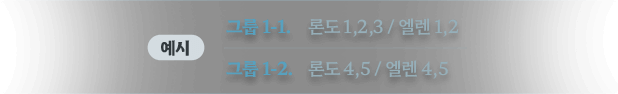
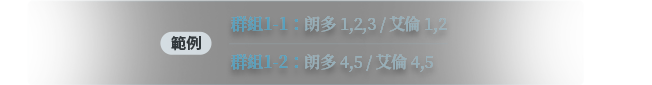
some image done

Changed region(s): [[0.123, 0.0, 0.9223, 1.0]]

diff --git a/css/page.css b/css/page.css
@@ -329,7 +329,7 @@
     box-sizing: border-box;
     color: #c9c9c980;
     display: flex;
-    font-family: Hahmlet, sans-serif;
+    font-family: "Noto Serif TC", serif;
     font-size: 17px;
     font-style: normal;
     font-weight: 500;
@@ -654,7 +654,7 @@ section.area .header {
     align-items: center;
     display: flex;
     flex-direction: column;
-    font-family: WarsOfPrasia, serif;
+    font-family: "Noto Serif TC", serif;
     transform: translateZ(0);
 }
 
@@ -665,7 +665,8 @@ section.area .header .subtitle {
     font-size: 25px;
     line-height: 1;
     white-space: nowrap;
-    grid-gap: 15px
+    grid-gap: 15px;
+    font-weight: 600;
 }
 
 @media (max-width: 768px) {
@@ -712,10 +713,11 @@ section.area .header h3.title {
     background-position: 50%;
     background-repeat: repeat;
     background-size: initial;
-    color: #0000;
+    color: #f3f0ed;
     font-size: 46px;
     line-height: 1;
-    margin-top: 18px
+    margin-top: 18px;
+    font-weight: 700;
 }
 
 @media (max-width: 768px) {
@@ -738,10 +740,11 @@ section.area .header .description {
 
 section.area p {
     color: #c0cad0;
-    font-family: Hahmlet, sans-serif;
+    font-family: "Noto Serif TC", serif;
     font-size: 18px;
     font-style: normal;
-    letter-spacing: -.05em
+    letter-spacing: -.05em;
+    font-weight: 400;
 }
 
 @media (max-width: 768px) {
@@ -790,7 +793,7 @@ section.area p {
     line-height: 1;
     margin-top: 36px;
     -webkit-text-fill-color: #0000;
-    font-family: Hahmlet, sans-serif;
+    font-family: "Noto Serif TC", serif;
     font-style: normal
 }
 
@@ -942,7 +945,7 @@ section.area p {
     background-size: contain;
     color: #0000;
     flex: 0 0 auto;
-    font-family: WarsOfPrasia, serif;
+    font-family: "Noto Serif TC", serif;
     font-size: 28px
 }
 
@@ -1079,8 +1082,8 @@ section.area p {
     background-position: 50% 50%;
     background-repeat: no-repeat;
     background-size: contain;
-    height: 86px;
-    width: 557px
+    height: 85px;
+    width: 625px
 }
 
 @media (max-width: 768px) {
@@ -1096,7 +1099,7 @@ section.area p {
     background-repeat: no-repeat;
     background-size: contain;
     height: 49px;
-    width: 623px
+    width: 652px
 }
 
 @media (max-width: 768px) {
@@ -1115,7 +1118,7 @@ section.area p {
     filter: drop-shadow(0 0 10px rgba(0, 0, 0, .3));
     font-size: 0 !important;
     height: 486px;
-    width: 403px;
+    width: 404px;
     -webkit-text-size-adjust: none
 }
 
